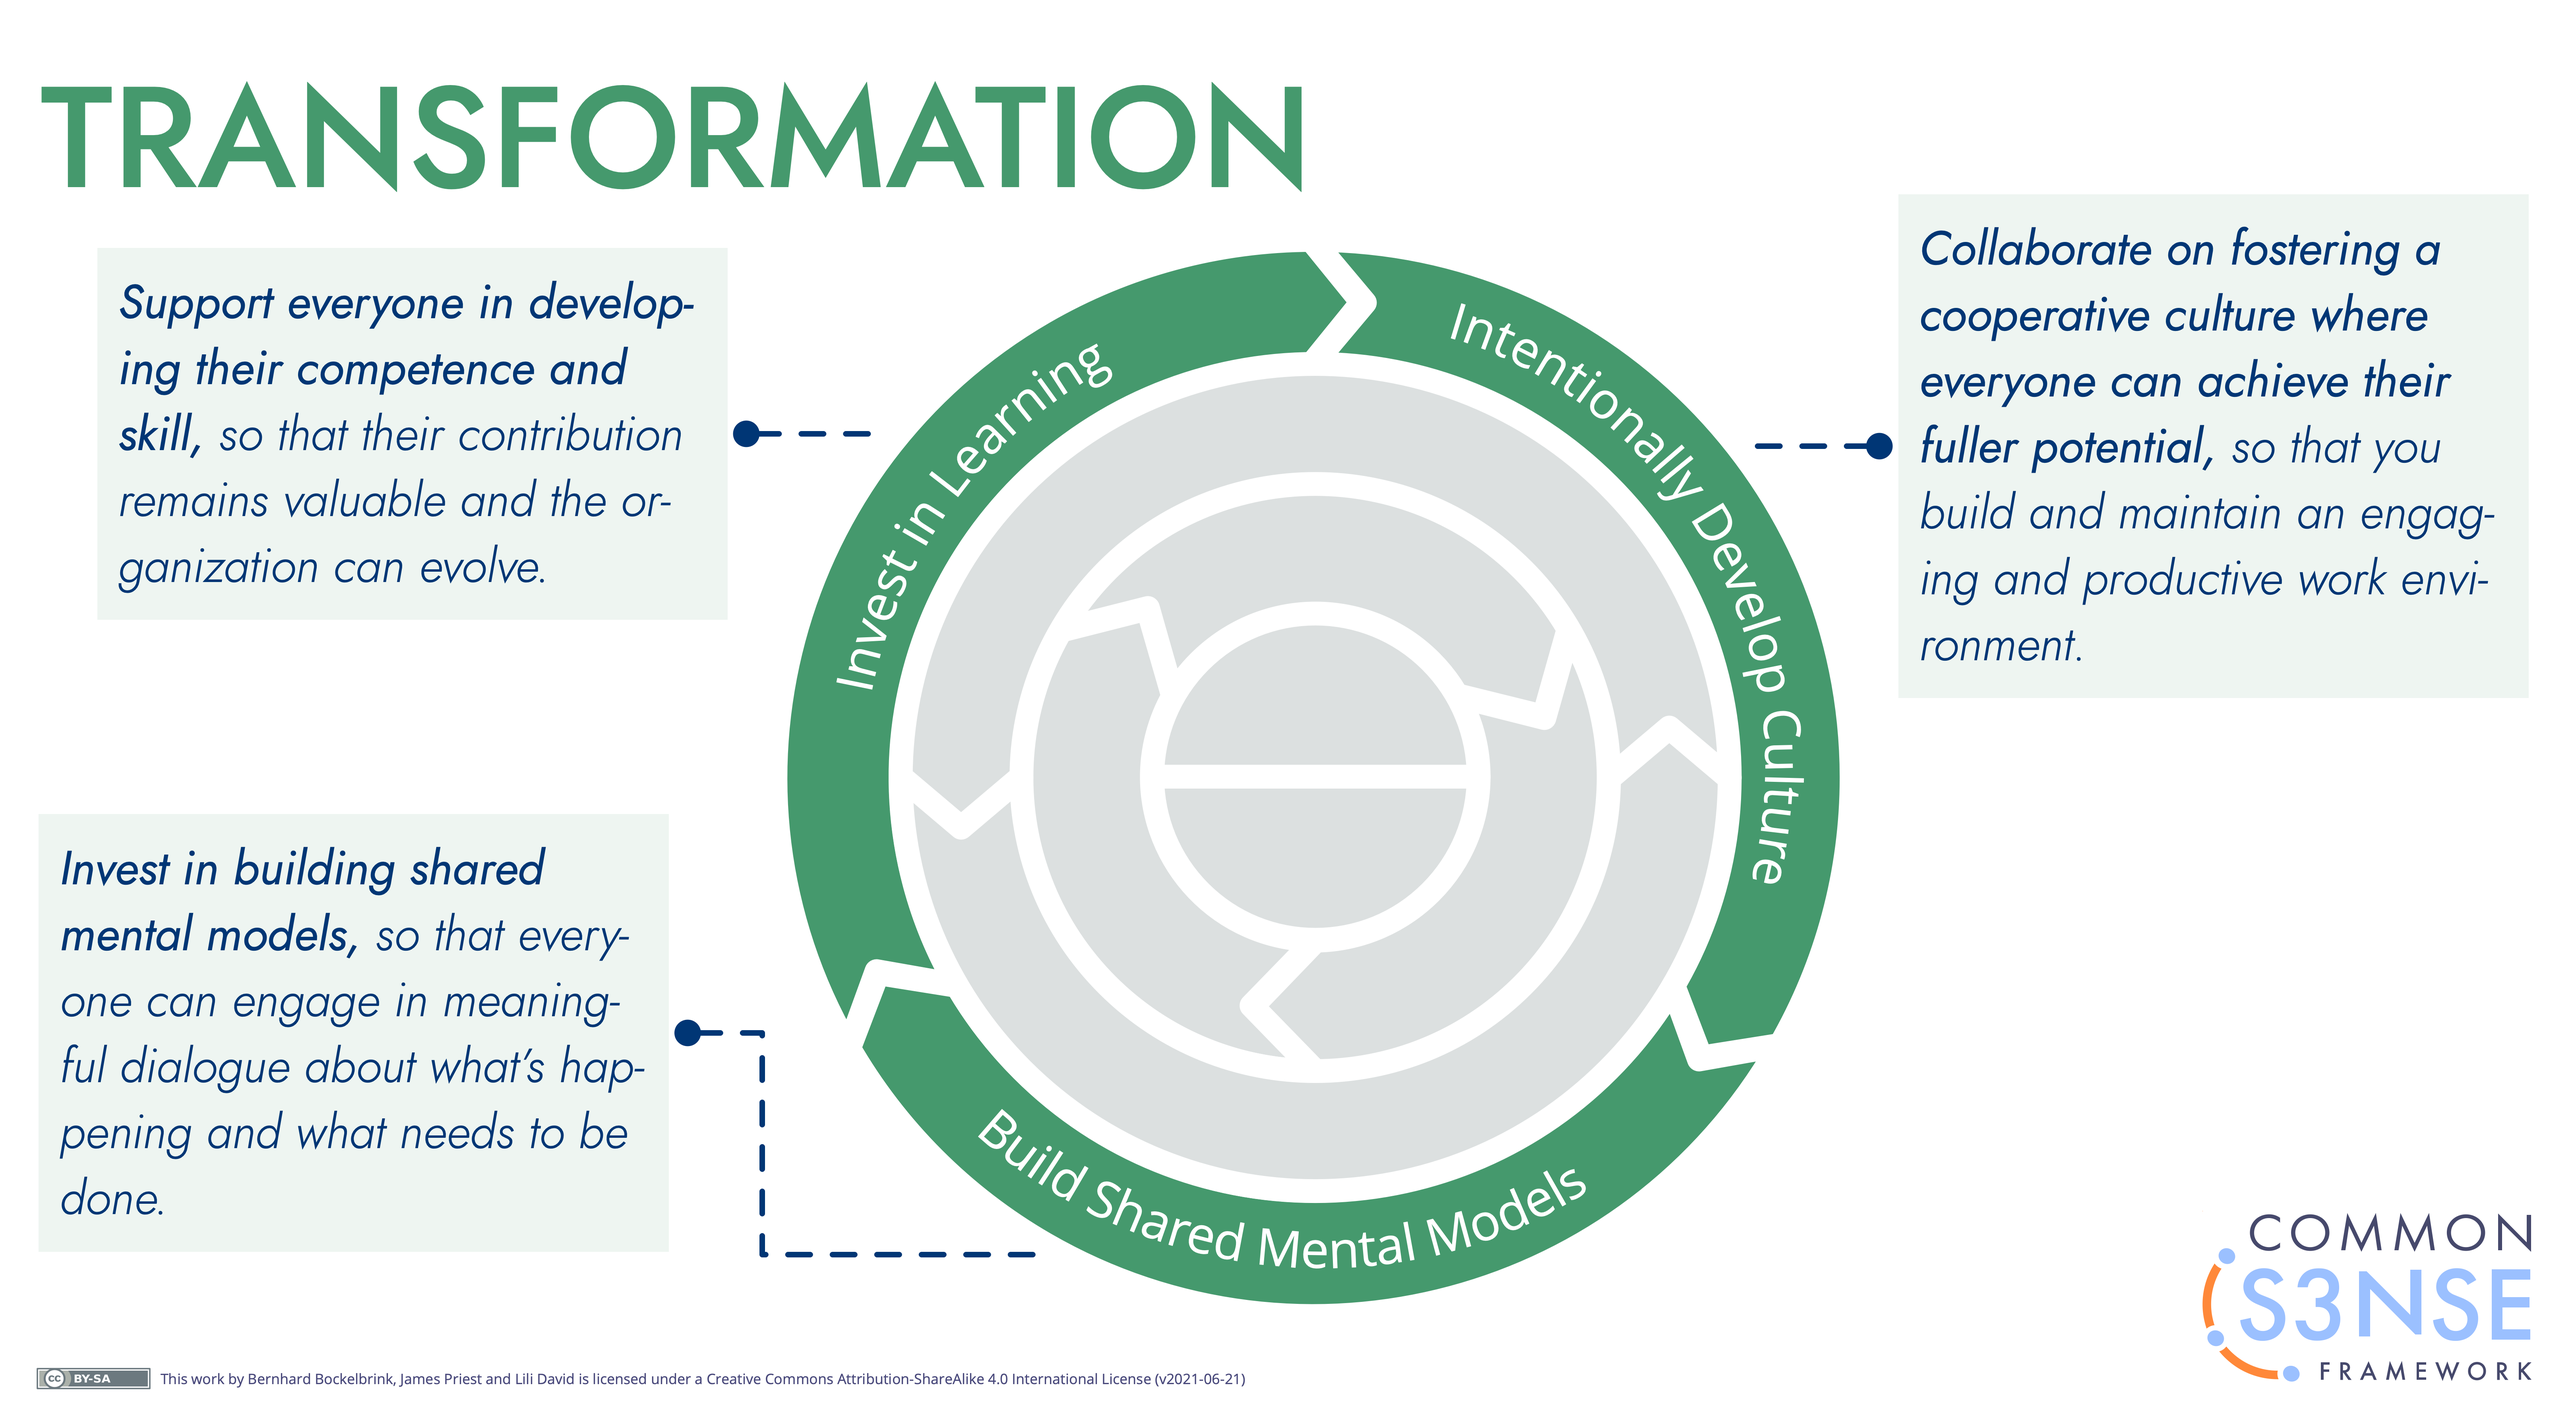
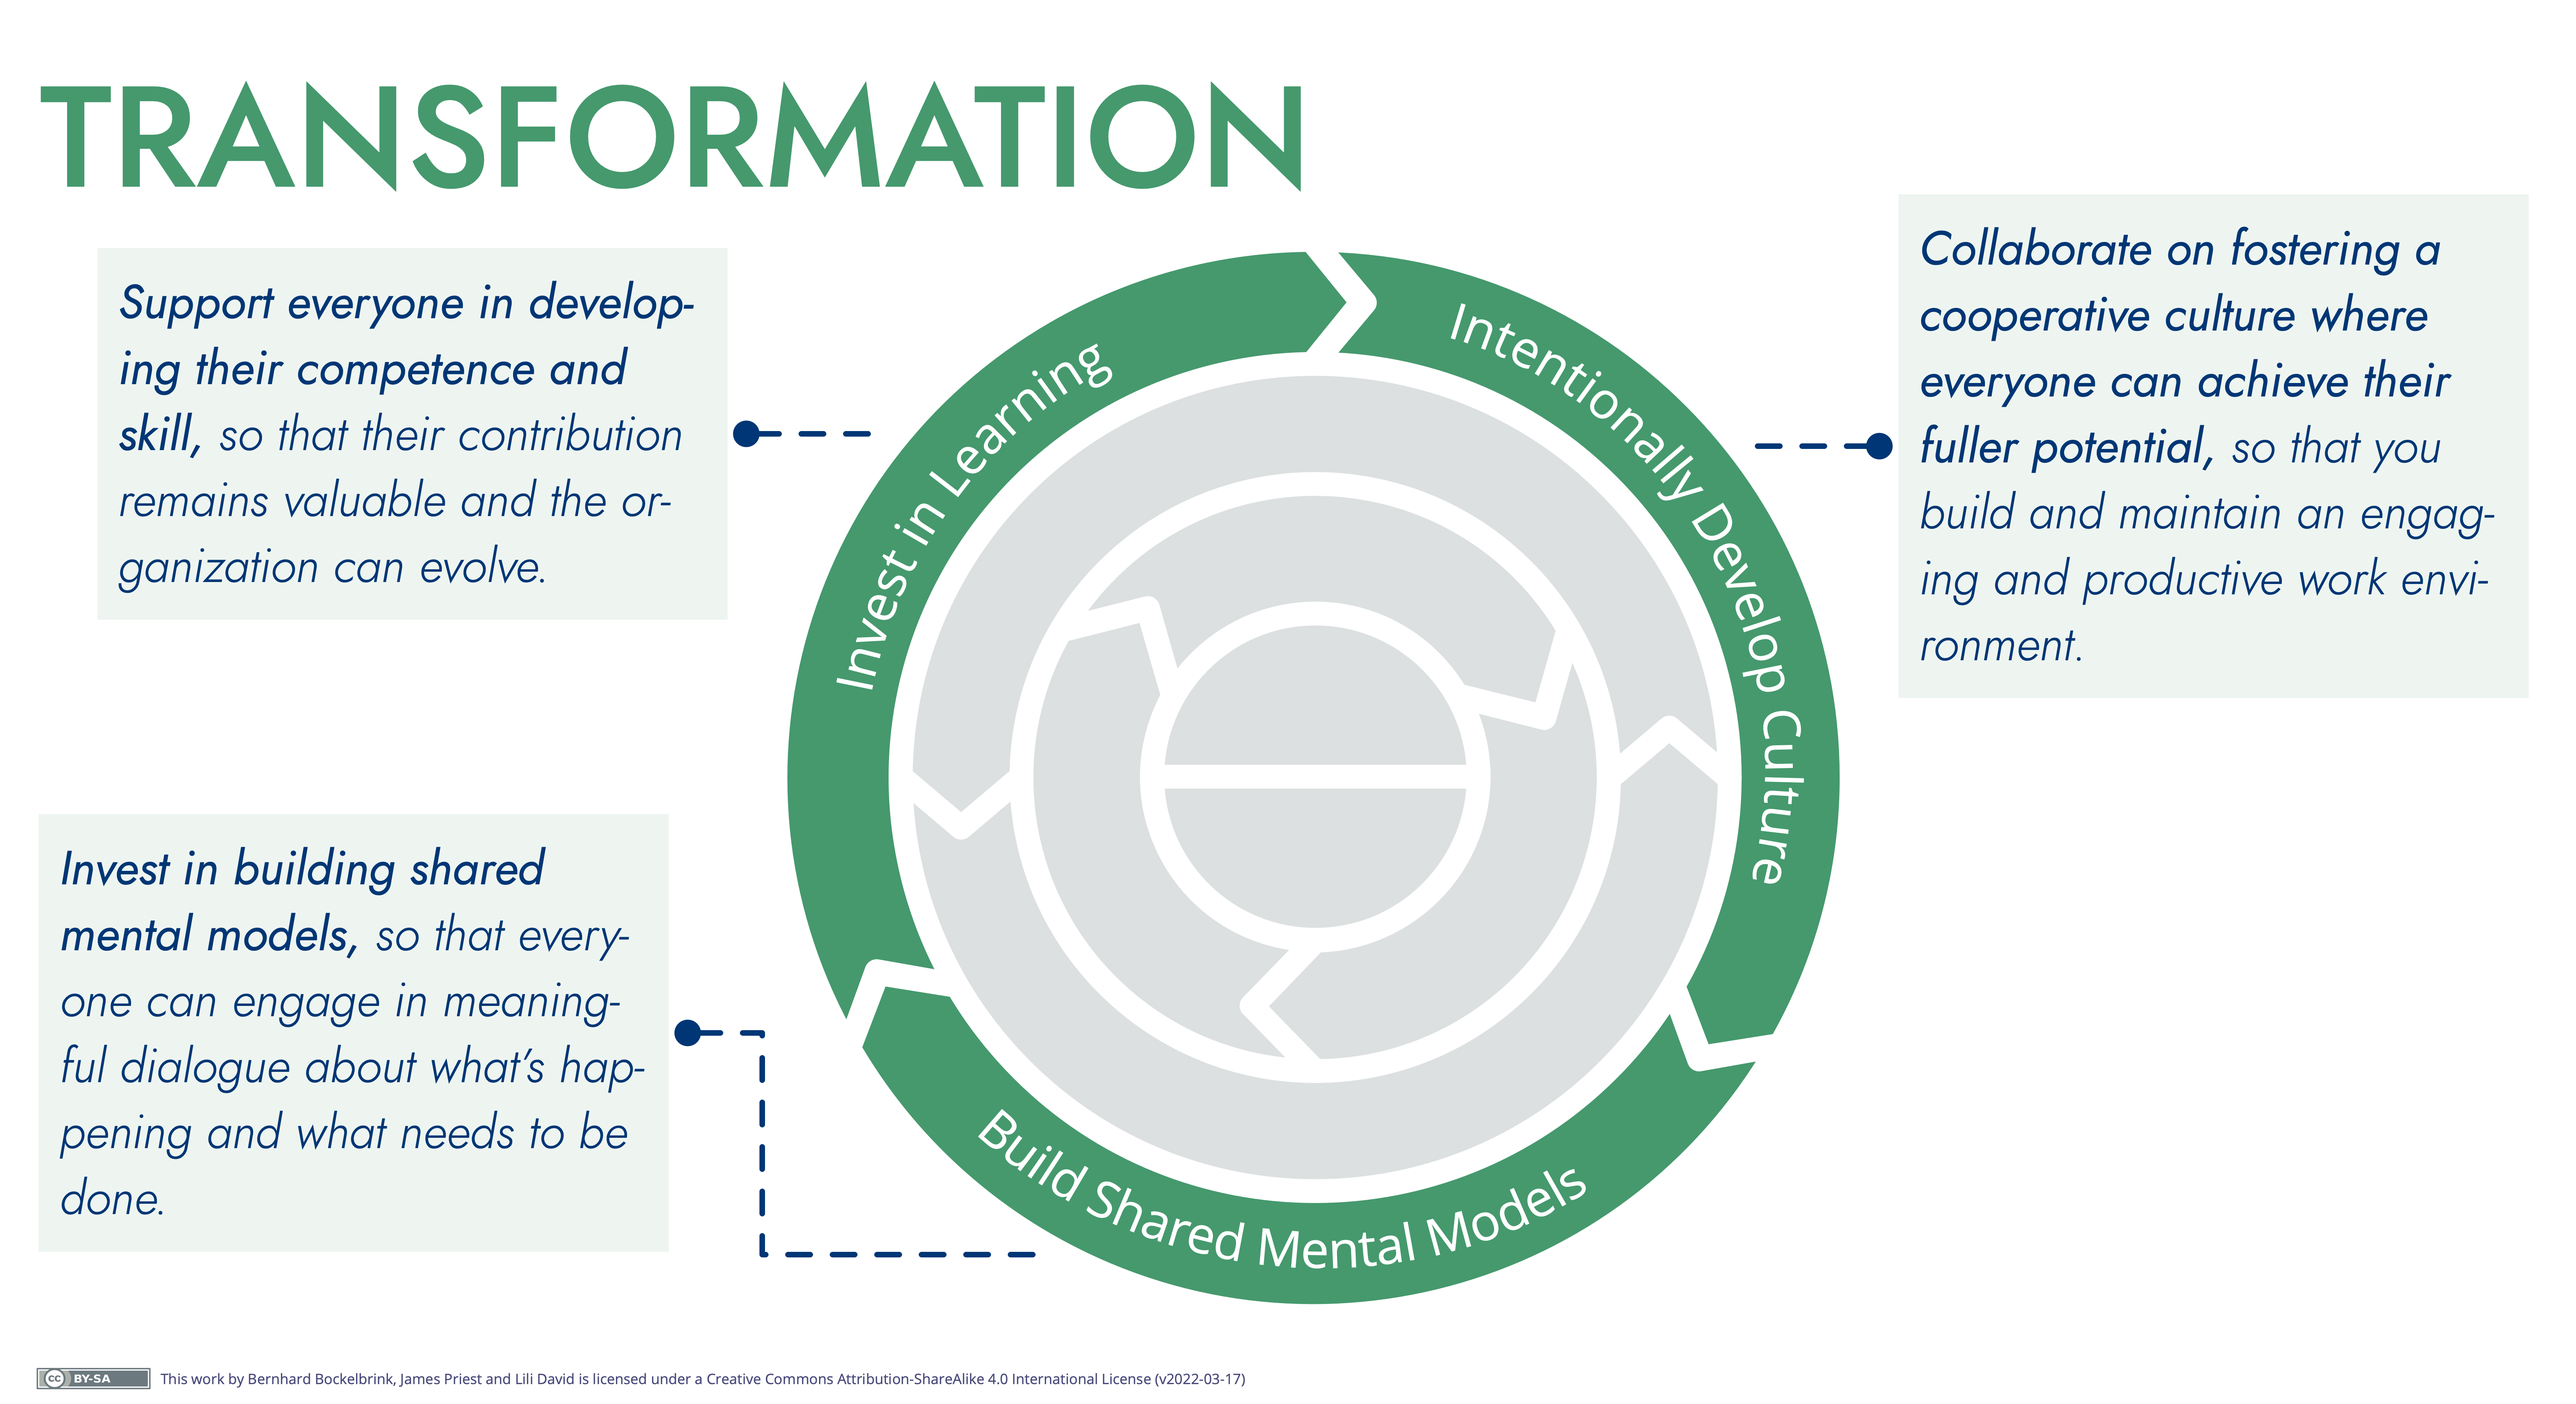
updated changelog and exported new illustrations

Changed region(s): [[0.8414, 0.8715, 0.9972, 0.996]]

diff --git a/docs/news.md b/docs/news.md
@@ -4,7 +4,14 @@ title: News
 
 # News and Updates
 
+## April 2022
 
+-   updated `agreements/resolve-objections` and `agreements/resolve-objections-process`
+
+## March 2022
+
+-   revised `agreements/reasoned-decision-making-table`
+-   `cse/01 Introduction Slide`: added reciprocity
 ## February 2022
 
 -   added illustrations for reasoned decision-making:
